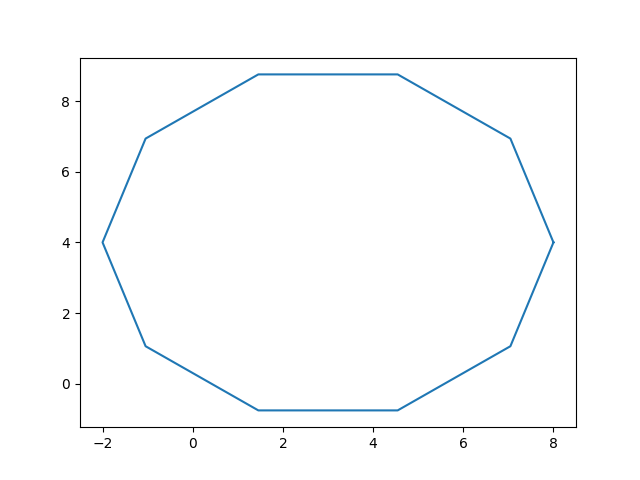
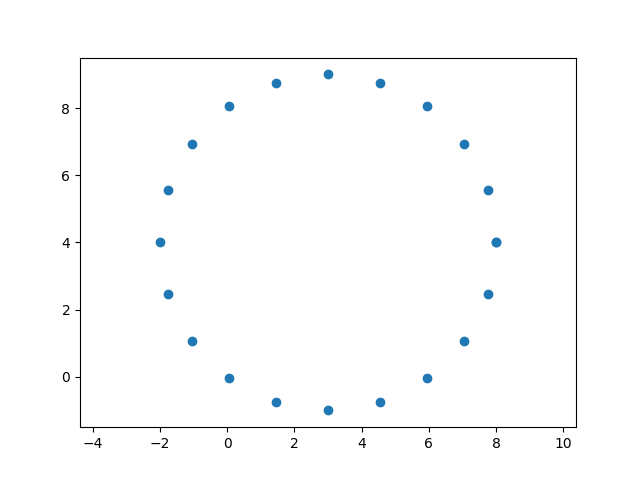
uu

diff --git a/lab_4_extratask1.py b/lab_4_extratask1.py
@@ -14,10 +14,10 @@ def func(r, N, v, x_0, y_0):
 
     return X, Y
 
-sol = func(5, 10, 2, 3, 4)
+sol = func(5, 20, 2, 3, 4)
 t = sol[0]
 s = sol[1]
-print(t)
 
-plt.plot(t, s, label="Площадь")
+plt.plot(t, s, 'o')
+plt.axis("equal")
 plt.savefig("lab_extratask1.png")
